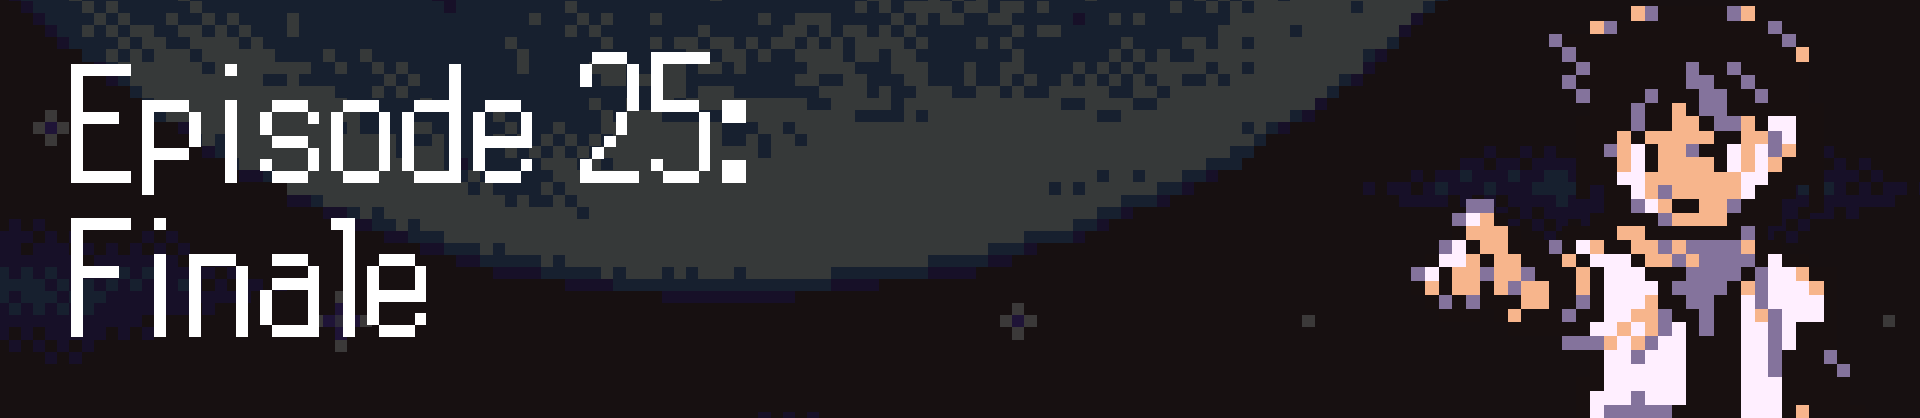
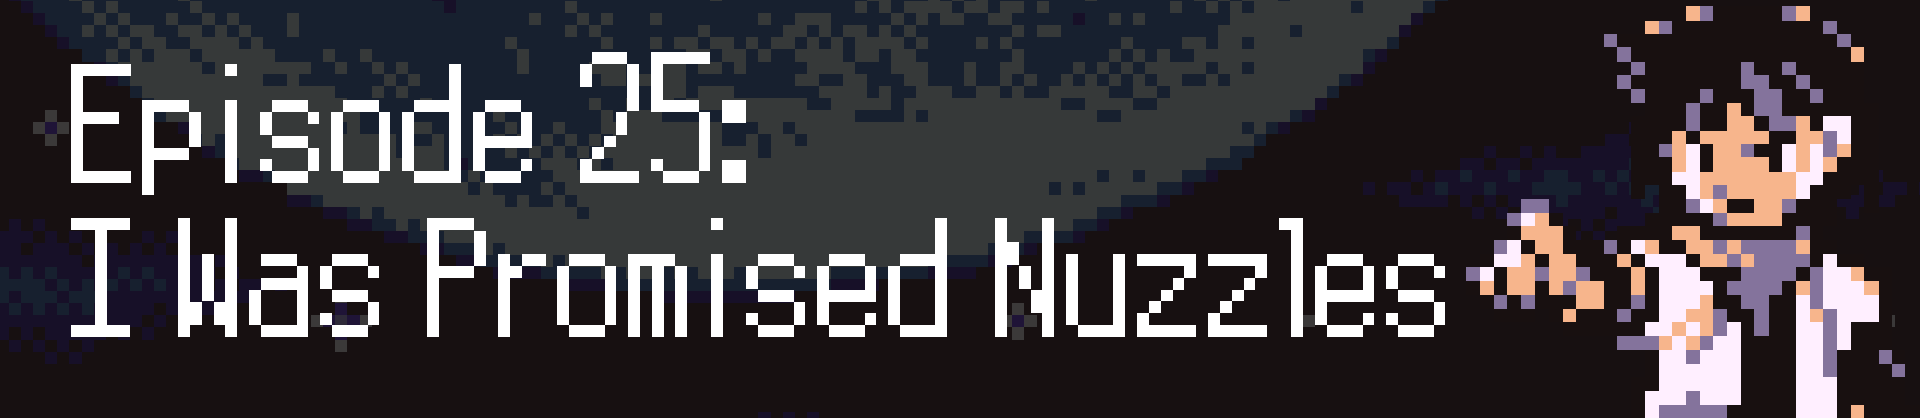
episode 21

Changed region(s): [[0.0312, 0.0, 1.0, 1.0], [0.3438, 0.5287, 0.375, 0.5598]]

diff --git a/puzzles/crossword25a.html b/puzzles/crossword25a.html
@@ -1,0 +1,177 @@
+<html>
+  <head>
+    <link rel="preconnect" href="https://fonts.googleapis.com" />
+    <link rel="preconnect" href="https://fonts.gstatic.com" crossorigin />
+    <link rel="stylesheet" href="puzzles.css" />
+    <link
+      href="https://fonts.googleapis.com/css2?family=VT323&display=swap"
+      rel="stylesheet"
+    />
+    <link rel="stylesheet" href="puzzles.css" />
+    <title>2025 Magic Crossword</title>
+  </head>
+  <body>
+    <div style="width: 100%; display: flex; justify-content: center">
+      <img
+        src="assets/CrosswordLogo.png"
+        style="width: 60%; max-width: 100%; height: auto"
+      />
+    </div>
+    <p>Welcome to the Chillbrain Lanes Magic: The Gathering Crossword 2025!</p>
+    <div
+      style="
+        display: flex;
+        justify-content: center;
+        align-items: center;
+        min-height: 100vh;
+      "
+    >
+      <iframe
+        width="1120"
+        height="630"
+        src="https://www.youtube.com/embed/dbqsdKSlkOk?si=YMuJMtbIkCKTI-6u"
+        title="YouTube video player"
+        frameborder="0"
+        allow="accelerometer; autoplay; clipboard-write; encrypted-media; gyroscope; picture-in-picture; web-share"
+        referrerpolicy="strict-origin-when-cross-origin"
+        allowfullscreen
+      ></iframe>
+    </div>
+    <p>
+      Last year's crossword was just something I made for fun on a whim, but a
+      lot of folks really seemed to enjoy it. Or rather, they seemed to enjoy
+      seeing one person in particular struggle through it. That stream was an
+      absolute delight, and in it Mr. Wheeler requested that I make another
+      puzzle for the next year. I was happy to oblige!
+    </p>
+    <p>
+      Like the Serebii crosswords that inspired it, the original crossword
+      wasn't really meant to be something anyone could realistically complete
+      without a lot of outside help. It was just a fun "How many do you know?"
+      type of challenge. However, Mr. Wheeler asked for this year's puzzle to
+      exclude particular types of questions: Nothing about any card that isn't
+      Vintage legal, and no questions about ancillary story and lore. With that
+      in mind: Theoretically, if you had 100% perfect knowledge of every
+      printing of every Vintage-legal card, and knew where all of them came
+      from, you would be able to easily answer every single question on this
+      puzzle. Certain clues give some extra information that's outside of these
+      criteria, but none of it is necessary to solve that clue. It's just some
+      extra details that might help.
+    </p>
+    <p>
+      This puzzle clocks in at a whopping 400 Clues, 150 more than last year.
+      Out of these, 99 clues come from submissions from friends and community
+      members. Thank you to everyone who submitted, by the way! The full credits
+      can be found at the bottom of this page.
+    </p>
+    <p>
+      Here's some quick ground rules to keep in mind before you jump in to the
+      puzzle:<br />
+      • All answers are made up of only letters. No numbers, no hyphens, no
+      punctuation or any other symbols. Case also doesn't matter, naturally.<br />
+      • When the answer would include one or more spaces, or a character that
+      isn't a letter, write the answer without them. If there's an answer with
+      an unconventional version of a letter, use the version of that letter
+      found on a common English keyboard. For example "Lim-Dûl's Vault" would be
+      "LIMDULSVAULT" as an answer.
+      <br />• An answer can be anything, not just a card name. However, all
+      answers are in English. <br />• That thing about the "pay attention to the
+      capitalization in the questions!" from last year was stupid, so we're not
+      doing that this time. If you don't know what I'm talking about, good.<br />
+      • If you get stuck on something, the "Solve" button will fill in any
+      answer for you. "OK" is the button you'll want to press if you're filling
+      in a question yourself. The "Check puzzle" button will tell you which if
+      any of your currently filled in answers are incorrect.<br />
+      • Unfortunately, there is no way to save your progress across sessions, so
+      if you want to pick up a partially completed puzzle later, you'll have to
+      leave the tab open. Apologies for the inconvenience!
+    </p>
+    <p>
+      With that out of the way, grab a drink, turn on some (festive perhaps?)
+      music, and maybe go use the restroom, cause you might be here for awhile.
+      When you're ready, click below to venture into the dungeon. Good luck!
+    </p>
+    <h1 clss="center">
+      <a href="crossword25puzzle.html"
+        ><div style="width: 100%; display: flex; justify-content: center">
+          <img
+            src="assets/venture.png"
+            style="width: 100%; max-width: 100%; height: auto"
+          /></div
+      ></a>
+    </h1>
+    <div class="centerwide">
+      <img
+        src="../shandalarfiles/Jirachi2.png"
+        alt="Jirachi Gif"
+        style="width: 8%"
+        class="centerimage"
+      />
+      <a href="../index.html">
+        <img
+          src="../shandalarfiles/homepage.gif"
+          alt="Click here to go back to my homepage"
+          style="width: 55%"
+          class="centerimage"
+        />
+      </a>
+      <img
+        src="../shandalarfiles/Jirachi2.png"
+        alt="Jirachi Gif"
+        style="width: 8%"
+        class="centerimage"
+      />
+    </div>
+    <h2>Credits</h2>
+    <p>
+      These credits contain each of the clues that resulted from submissions
+      from each of these lovely people. Some of them were changed to varying
+      levels of significance from the original submission, but if any part of
+      your submission inspired a clue, you're credited for it. If you notice a
+      clue that seems similar to one you submitted but you're not credited, it's
+      very likely that I came up with that same clue before you got a chance to
+      submit it, or someone else submitted it before you did: This happened a
+      surprising number of times.
+    </p>
+    <h2>avi_miller</h2>
+    <p>5 clues</p>
+    <h2>Bibz</h2>
+    <p>5 clues</p>
+    <h2>Brithilnin</h2>
+    <p>1 clue</p>
+    <h2>ethan</h2>
+    <p>1 clue</p>
+    <h2>FLAREdirector</h2>
+    <p>9 clues</p>
+    <h2>Forrend</h2>
+    <p>2 clues</p>
+    <h2>grishnax</h2>
+    <p>15 clues</p>
+    <h2>Jakiri</h2>
+    <p>1 clue</p>
+    <h2>Make Varah Happen</h2>
+    <p>1 clue</p>
+    <h2>OddDirective</h2>
+    <p>7 clues</p>
+    <h2>piguy_</h2>
+    <p>3 clues</p>
+    <h2>PowrOfFriendship</h2>
+    <p>1 clue</p>
+    <h2>Seismic</h2>
+    <p>15 clues</p>
+    <h2>smnk (Winter)</h2>
+    <p>16 clues</p>
+    <h2>Splashcat</h2>
+    <p>1 clue</p>
+    <h2>Toastiferous</h2>
+    <p>4 clues</p>
+    <h2>vivi</h2>
+    <p>2 clues</p>
+    <h2>Wende</h2>
+    <p>8 clues</p>
+    <h2>Xavion</h2>
+    <p>1 clue</p>
+    <h2>Zesty</h2>
+    <p>1 clue</p>
+  </body>
+</html>

diff --git a/puzzles/crossword25puzzle.html b/puzzles/crossword25puzzle.html
@@ -3,6 +3,7 @@
   <head>
     <link rel="preconnect" href="https://fonts.googleapis.com" />
     <link rel="preconnect" href="https://fonts.gstatic.com" crossorigin />
+    <link rel="stylesheet" href="puzzles.css" />
     <link
       href="https://fonts.googleapis.com/css2?family=VT323&display=swap"
       rel="stylesheet"
@@ -11,10 +12,6 @@
     <meta name="generator" content="EclipseCrossword" />
     <style type="text/css">
       <!--
-
-        html {
-          background-color: #000000;
-        }
 
       body, h1, h2, h3, h4, h5, h6, #wordentry
       {
@@ -166,12 +163,12 @@
     </style>
   </head>
   <body>
-    <!--<div style="width: 100%; display: flex; justify-content: center">
+    <div style="width: 100%; display: flex; justify-content: center">
       <img
         src="assets/CrosswordLogo.png"
         style="width: 60%; max-width: 100%; height: auto"
       />
-    </div>-->
+    </div>
 
     <style>
       @media (max-width: 768px) {
@@ -1114,7 +1111,7 @@
               "The first green creature to cantrip when it enters.",
               "Its art depicts an identical creature to the one that appears on Guidelight Synergist, suggesting the Guidelight Voyagers originally called The Edge their home.",
               "The only card to generate impostor counters.",
-              "Appears in the name of two one mana cards, one from Time Spiral and one from Antiquities. It's an anagram of Pyrite.",
+              "Appears in the name of two one mana cards, one from Time Spiral and one from Antiquities. It's an anagram of a common sulfide.",
               "Printed in Double Masters, Multiverse Legends, and the Marvel Universe bonus sheet.",
               "This Phoenix has no way to return itself from the graveyard.",
               "The only card with a mana value greater than 3 printed in From the Vault: Exiled.",
@@ -1123,7 +1120,7 @@
               "The Secret Lair version of Reflector Mage has the same printing error as the borderless artwork of this card.",
               "Card name printed in Alliances. Allied and Dwarven versions came later.",
               "This keyword gave a name to an unkeyworded theme from a previous set. Like its first unkeyworded appearance, it appears on a monocolored cycle, plus one additional rare.",
-              "It was printed into Shards of Alara in 2022: Its Collector's Number even picks up right where that set left off.",
+              "A new version of this card was printed into Shards of Alara in 2022: Its Collector's Number even picks up right where that set left off.",
               'The spine of a book in this Duskmourn card\'s artwork reads "Elesh Norn" in Phyrexian text.',
               "First printed in Portal Second Age, later printed as a textless promo in 2007.",
               "A tournament promo art for this card depicts Kogla, Aesi, and a Giant Adephage, among others, in an homage to a poster for the Godzilla film Destroy All Monsters.",
@@ -1173,7 +1170,7 @@
               "Printed at both Rare and Mythic Rare in the same set, then later downshifted to Uncommon.",
               "Cast this spell only during an opponent's turn after their upkeep step.",
               "Odric, Lunarch Marshal looks for this keyword on your creatures, but Odric, Blood-Cursed doesn't.",
-              "One of its two printed tokens is missing its keyword.",
+              "Creates two tokens, one Green and one White, each with a keyword. Its printed Green token is missing the keyword.",
               "Conditionally evasive 5 mana 4/4 with only one printing, in Commander 2013.",
               "Errata'd into a Trilobite Beast.",
               "In Renaissance, but not in Rinascimento. Shares a name with a third, unrelated expansion.",
@@ -1314,10 +1311,10 @@
               "Depending on how you count, this green Instant has been printed in 6, 7, or 8 different Universes Beyond properties.",
               '"Flying Crane" is one of three fighting styles mentioned in Flying Crane Technique\'s flavor text. This was another, which received a card named in the same format in Tarkir: Dragonstorm.',
               "There's a Wall of this blue Sorcery. It lent its art to the first printed Copy Token.",
-              "An uncommon alternate win condition in Murders at Karlov Manor.",
+              "Murders at Karlov Manor uncommon that gives you an unconventional win condition.",
               "Agency Outfitter lets you search your library for Magnifying Glass and/or this card.",
               'Reprinted as "Colonel John Jameson" as part of the Marvel Legends Gamerverse series of action figures.',
-              "One of three reprints in The Lord of the Rings: Tales of Middle-Earth. (Excluding basic lands).",
+              "Printed in The Lord of the Rings: Tales of Middle-Earth and Throne of Eldraine.",
               "A creature type exclusive to one card's token, and an instant printed in Urza's Destiny. (Excludes Changelings).",
               "He who paints the earth red.",
               'The only common red creature in Legends that can attack for damage. It\'s one of two cards with flavor text just quoted to "Anonymous".',
@@ -1465,7 +1462,7 @@
               "Jenova Cells turn your creatures into 7/5s, as long as they're this.",
               "Shares its flavor text with the borderless version of Skyseer's Chariot.",
               "You may discard this card any time you could cast an instant.",
-              "Highest ranked nonland card printed in Modern Horizons 2 on EDHRec.",
+              "Highest ranked nonland card printed in Modern Horizons 2 on EDHRec. It has a one word name.",
               "A Clone that turns the copied creature into a flying Dragon.",
               "This Dissension card's flavor text mostly stayed the same in its Magic 2011 reprint, but it strangely had its punctuation changed.",
               "One of its printings has the collector's number 9999.",
@@ -1473,7 +1470,7 @@
               "It is possible that some queens are not born queens, but evolve into that form over time.",
               "In a megacycle that began in Magic 2012, this Universes Beyond card is the Green member.",
               "Its Mystical Archives flavor text reappeared on a new reprint using its Magic 2010 artwork.",
-              "The only Game Changer first printed in 2001.",
+              "Game Changer first printed in 2001.",
               "Within the Final Fantasy product line, this card first received two different alternate names.",
               "Strictly better version of Chorus of Woe.",
               "Kismet on a Ravnican creature.",

diff --git a/letsplay/starbeasts/ch25a.html b/letsplay/starbeasts/ch25a.html
@@ -20,7 +20,7 @@
     />
   </h2>
   <body>
-    <p class="centertext bigtext">Episode 25: Finale</p>
+    <p class="centertext bigtext">Episode 25: I Was Promised Nuzzles</p>
     <figure>
       <iframe
         class="inlineimage centerimage"
@@ -36,9 +36,11 @@
     </figure>
     <p>
       Well, our dream of hearing Megalovania by the end of this game did not
-      come true, but No More Nuzzles is so much better than I could've possibly
-      dreamed. What a perfect track for this final battle against a guy named
-      Varik.
+      come true, but
+      <a href="https://www.youtube.com/watch?v=cDF61nMaLmw">No More Nuzzles</a>
+      is so much better than I could've possibly dreamed. I don't know what I
+      was expecting, but this caught me delightfully off guard. What a perfect
+      track for this final battle against a guy named Varik.
     </p>
     <p>
       Boy, I got lucky with full paras in this battle. I also made sure to get

diff --git a/puzzles/crossword25.html b/puzzles/crossword25.html
@@ -2,6 +2,7 @@
   <head>
     <link rel="preconnect" href="https://fonts.googleapis.com" />
     <link rel="preconnect" href="https://fonts.gstatic.com" crossorigin />
+    <link rel="stylesheet" href="puzzles.css" />
     <link
       href="https://fonts.googleapis.com/css2?family=VT323&display=swap"
       rel="stylesheet"
@@ -9,7 +10,13 @@
     <link rel="stylesheet" href="puzzles.css" />
     <title>2025 Magic Crossword</title>
   </head>
-  <body style="background-color: #000000">
+  <body>
+    <div style="width: 100%; display: flex; justify-content: center">
+      <img
+        src="assets/CrosswordLogo.png"
+        style="width: 60%; max-width: 100%; height: auto"
+      />
+    </div>
     <div
       style="
         display: flex;

diff --git a/letsplay/starbeasts/index.html b/letsplay/starbeasts/index.html
@@ -63,10 +63,10 @@
         ><img class="inlineimagewide" src="assets/episode22.png"
       /></a>
       <br /> -->
-      <!-- <a href="ch21.html"
+      <a href="ch21.html"
         ><img class="inlineimagewide" src="assets/episode21.png"
       /></a>
-      <br /> -->
+      <br />
       <a href="ch20.html"
         ><img class="inlineimagewide" src="assets/episode20.png"
       /></a>
